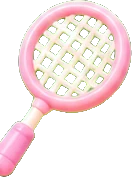
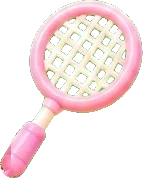
v3.26：網球拍握把補完整
Claude-Session: https://claude.ai/code/session_012PDdvnhE24eNTsBZcuKnj2

diff --git a/index.html b/index.html
@@ -6529,7 +6529,7 @@ z3_56:{name:'粉紅逗貓棒',emo:'🧸',kind:'toy',price:30,sz:0.9,cat:'pet',nw
 z3_61:{name:'彩色麻花繩',emo:'🧸',kind:'toy',price:30,sz:0.8,cat:'pet',nw:1},
 z3_62:{name:'肉球刺刺球',emo:'🧸',kind:'toy',price:30,sz:0.8,cat:'pet',nw:1},
 z3_63:{name:'羽毛球',emo:'🧸',kind:'toy',price:30,sz:0.7,cat:'hobby',nw:1},
-z3_64:{name:'網球拍',emo:'🧸',kind:'toy',price:40,sz:0.9,cat:'hobby',nw:1},
+z3_64:{name:'網球拍',emo:'🧸',kind:'toy',img:'assets/item_z3_64.webp?v=2',price:40,sz:0.9,cat:'hobby',nw:1},
 z3_65:{name:'按摩滾筒',emo:'🧸',kind:'toy',price:40,sz:0.9,cat:'hobby',nw:1},
 z3_66:{name:'瑜珈墊',emo:'🧸',kind:'toy',price:40,sz:0.9,cat:'hobby',nw:1},
 z4_00:{name:'貓耳沙發',emo:'🧸',kind:'toy',price:120,sz:1.5,cat:'furn',nw:1},
@@ -7294,7 +7294,7 @@ function announceLetters(){if(!DB.me)return;let seen=[];try{seen=JSON.parse(loca
     sfx('gift');$('#lgopen').onclick=()=>openLetter(nw[0].id,()=>$('#bell').click())};
   setTimeout(go,1800)}
 // ================= 自動更新：發現新版本就重新載入 =================
-const APP_VER='v3.25';
+const APP_VER='v3.26';
 function checkUpdate(){
   if(!/^https?:/.test(location.protocol)||!API_URL)return;
   if(!$('#modal').classList.contains('hidden'))return; // 正在填表單時不打斷

diff --git a/CLAUDE.md b/CLAUDE.md
@@ -31,7 +31,8 @@
 - commit 訊息結尾加 Co-Authored-By 與 Claude-Session 行；不要在 commit / PR 寫模型名稱。
 
 ## 目前狀態（2026-11）
-- 前端 v3.25、後端 v79（都已上線，2026-11-28）。
+- 前端 v3.26、後端 v79（都已上線，2026-11-28）。
+- v3.26：網球拍（z3_64）握把在原圖被切掉（左邊、下面），沿握把方向鏡射補成圓頭（`img:'…?v=2'`）。
 - v3.25：盲盒 45 三花貓（bb45_02）兩邊臉頰、綿羊（bb45_03）左尖角＋右缺口、兔兔（bb45_04）左尖角修好（鏡射／照輪廓補，scratchpad fix45b.py），`?v=3`。其他 29～48 系列目測沒看到同樣問題。
 - v3.24：盲盒 46 吊帶兔兔（bb46_04）右臉頰被切掉一塊 → 用左半邊鏡射補回；貝蕾帽綿羊（bb46_05）左邊黏到的兔子臉頰尖角拿掉；這兩張 `?v=3`。
 - v3.23：新增 142 款帽子配件 `acc_h1_01～h6_22`（6 張綠幕表，島主打叉的跳過；136 頭、6 臉），`nw:1` 服飾店排前面、標「新」（`.accnw`）。NY 兩頂（h4_01、h5_09）像洋基商標，問過島主要不要換，還沒回。
